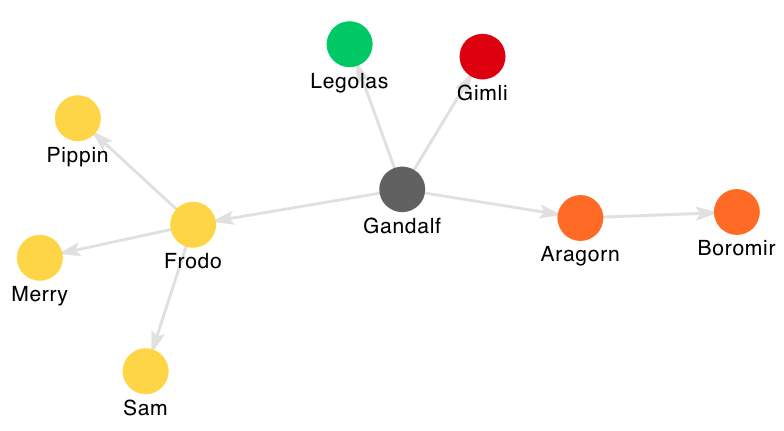
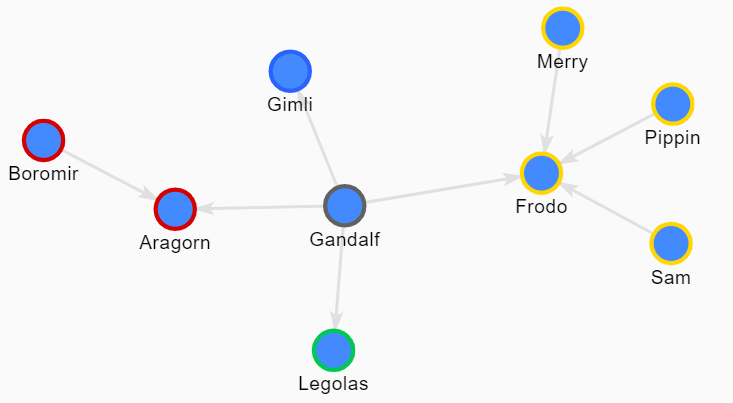
feat: update oboarding

diff --git a/src/scenes/graph/components/onboarding/components/add-nodes-and-links.component.js b/src/scenes/graph/components/onboarding/components/add-nodes-and-links.component.js
@@ -1,26 +1,30 @@
 import React from 'react';
 import Box from '@material-ui/core/Box';
-import { withStyles } from '@material-ui/core';
 
-import image from './assets/onboarding-add-nodes-and-links.png';
-
-const styles = (theme) => ({
-  img: {
-    maxWidth: '100%',
-    marginTop: theme.spacing(2),
-    marginBottom: theme.spacing(2),
-  },
-});
-
-const AddNodesAndLinks = ({ hidden, className, classes }) => (
+const AddNodesAndLinks = ({ hidden, className }) => (
   <Box hidden={hidden} className={className}>
-    <p>Add nodes and links from the speed dial on the bottom right corner</p>
-    <Box textAlign="center">
-      <img src={image} alt="Sample graph" className={classes.img} />
-    </Box>
-    <p>Name nodes and assign them a color, if you wish.</p>
-    <p>Then, you can start linking them together by adding links. Which can also be named and colored!</p>
+    <p>Nodes have names and are surrounded by parentheses. Check out these exmaples:</p>
+    <pre>
+      (Aragorn)
+      <br />
+      (Galadriel)
+      <br />
+      (Bilbo Baggins)
+      <br />
+    </pre>
+    <p>A link joins two nodes in a specific direction. They can be labelled too.</p>
+    <pre>
+      (Aragorn)->(Bilbo Baggins)
+      <br />
+      (Elrond)-[:hosts]->(Bilbo Baggings)
+      <br />
+      (Galadriel)&lt;-(Gimli)
+      <br />
+    </pre>
+    <p>You can write down more elaborated paths between your nodes and add as many details as you want!</p>
+    <pre>(Aragorn)-[:guides]->(Frodo)&lt;-[:uncle]-(Bilbo)&lt;-[:lives in]-(Rivendel)&lt;-(Elrond)-[:father]->(Arwen)</pre>
+    <p>There is no need to declare your nodes before using them.</p>
   </Box>
 );
 
-export default withStyles(styles, { withTheme: true })(AddNodesAndLinks);
+export default AddNodesAndLinks;

diff --git a/src/scenes/graph/components/onboarding/components/groups.component.js b/src/scenes/graph/components/onboarding/components/groups.component.js
@@ -14,12 +14,35 @@ const styles = (theme) => ({
 
 const Groups = ({ hidden, className, classes }) => (
   <Box hidden={hidden} className={className}>
+    <p>Categorize your nodes and links by assigning them groups.</p>
+    <p>Nodes that have a groups assigned are colored based on their group.</p>
+    <p>If you want to assign colors to your groups, declare them before using them with this notation:</p>
+    <pre>
+      :Dunedain #orange
+      <br />
+      :Hobbit #yellow
+      <br />
+      :Elf #ACE87B
+      <br />
+      :Dwarf #red
+      <br />
+    </pre>
+    <p>
+      There are a bunch of predefined colors you can use: purple, blue, green, yellow, orange, brown and grey, but, if none of them suits your needs,
+      you can define your own colors using RGB hexadecimal notation.
+    </p>
     <p>Assign groups to nodes and links to color them automatically.</p>
-    <p>Reveal hidden patterns in your graph by grouping together nodes and links.</p>
+    <p>To assign groups to nodes and links, use this notation:</p>
+    <pre>
+      (Aragorn :Dunedain)
+      <br />
+      (Bilbo :Hobbit)-[:family]->(Frodo: Hobbit)
+      <br />
+    </pre>
     <Box textAlign="center">
-      <img src={image} alt="Sample graph" className={classes.img} />
+      <img src={image} alt="Sample groups" className={classes.img} />
     </Box>
-    <p>Manage groups from the card at the bottom left corner</p>
+    <p>Check your groups from the card at the bottom right corner</p>
   </Box>
 );
 

diff --git a/src/scenes/graph/components/onboarding/onboarding.component.js b/src/scenes/graph/components/onboarding/onboarding.component.js
@@ -9,7 +9,6 @@ import { withStyles } from '@material-ui/core/styles';
 import Introduction from './components/introduction.component';
 import AddNodesAndLinks from './components/add-nodes-and-links.component';
 import Groups from './components/groups.component';
-import TextEditor from './components/text-editor.component';
 import Title from './components/title.component';
 
 const styles = (theme) => ({
@@ -28,6 +27,8 @@ const styles = (theme) => ({
   },
 });
 
+const steps = 3;
+
 const Onboarding = ({ open, dismiss, classes }) => {
   const [activeStep, setActiveStep] = useState(0);
 
@@ -45,15 +46,14 @@ const Onboarding = ({ open, dismiss, classes }) => {
       <Introduction hidden={activeStep !== 0} className={classes.step} />
       <AddNodesAndLinks hidden={activeStep !== 1} className={classes.step} />
       <Groups hidden={activeStep !== 2} className={classes.step} />
-      <TextEditor hidden={activeStep !== 3} className={classes.step} />
       <MobileStepper
         variant="dots"
-        steps={4}
+        steps={steps}
         position="static"
         activeStep={activeStep}
         className={classes.stepper}
         nextButton={
-          <Button size="small" onClick={handleNext} disabled={activeStep === 3}>
+          <Button size="small" onClick={handleNext} disabled={activeStep === steps - 1}>
             Next
             <KeyboardArrowRight />
           </Button>

diff --git a/src/scenes/graph/components/onboarding/components/introduction.component.js b/src/scenes/graph/components/onboarding/components/introduction.component.js
@@ -14,7 +14,7 @@ const styles = (theme) => ({
 
 const Introduction = ({ hidden, className, classes }) => (
   <Box hidden={hidden} className={className}>
-    <p>Grapher is a tool to create graphs. That's it!</p>
+    <p>Grapher is a tool to write down graphs. That's it!</p>
     <p>
       Start off by adding some nodes and link them to one another. Then, assign groups to them and color each group to reveal patterns in your graph.
     </p>
